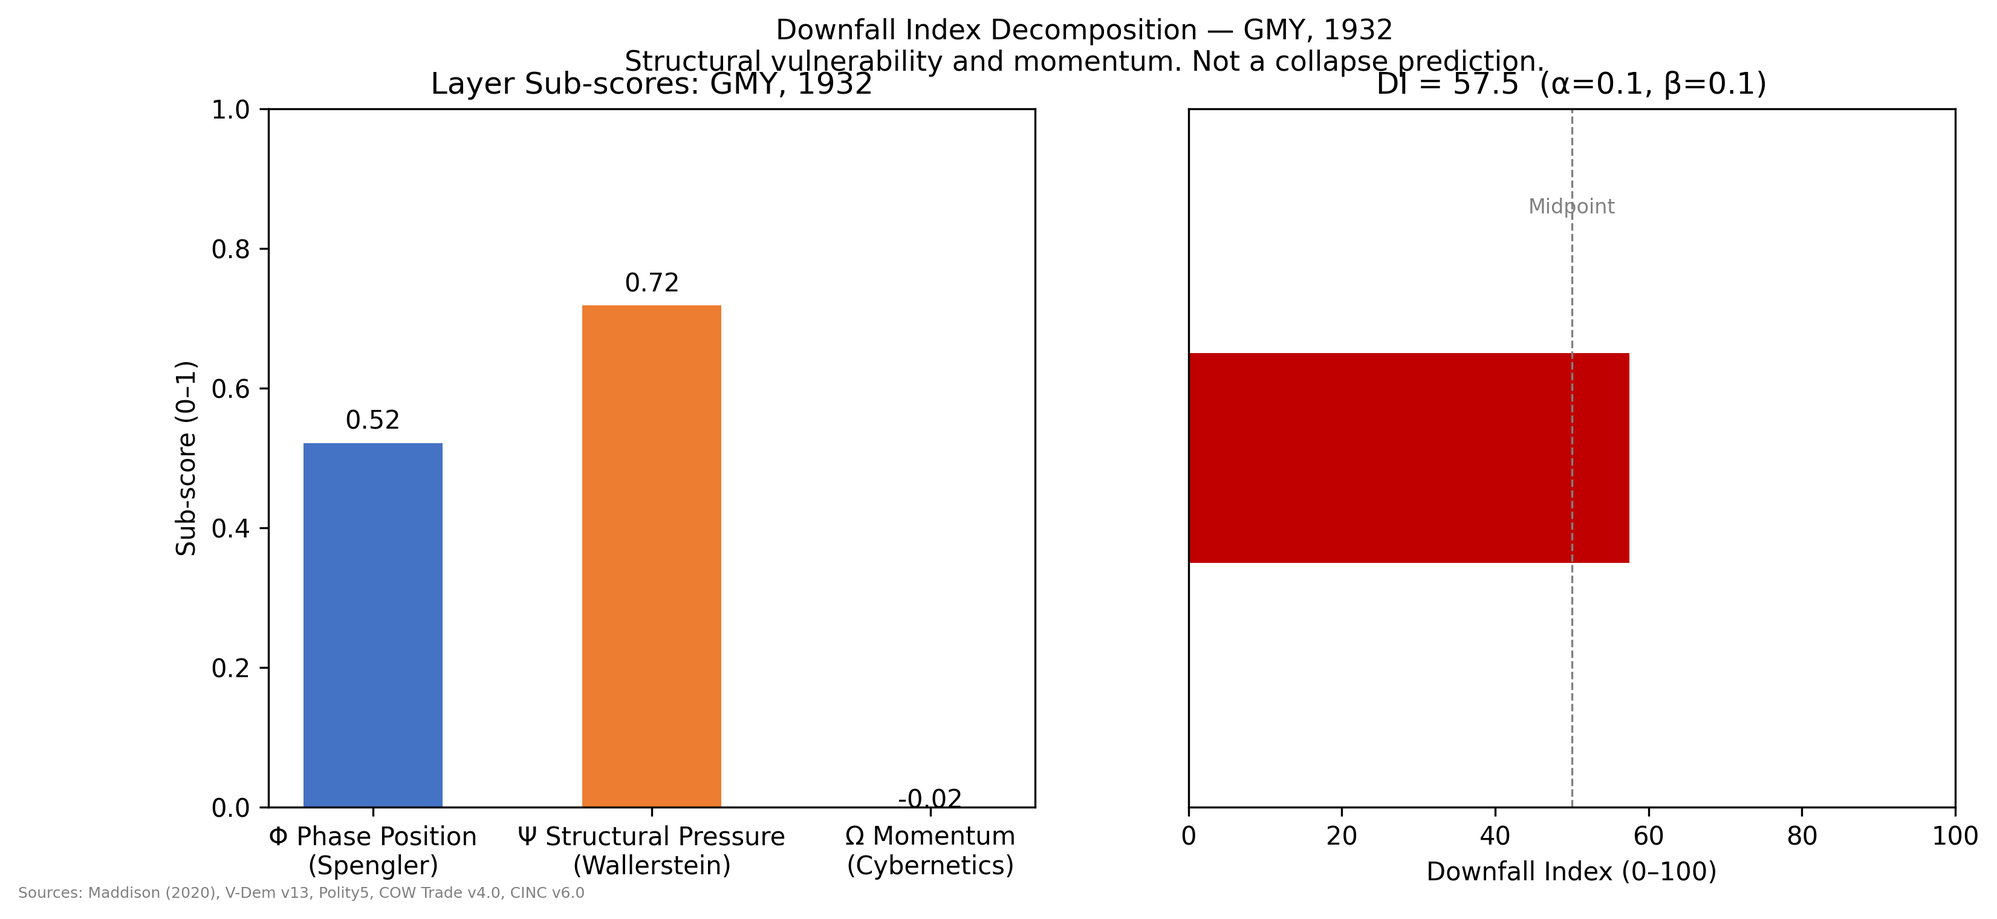
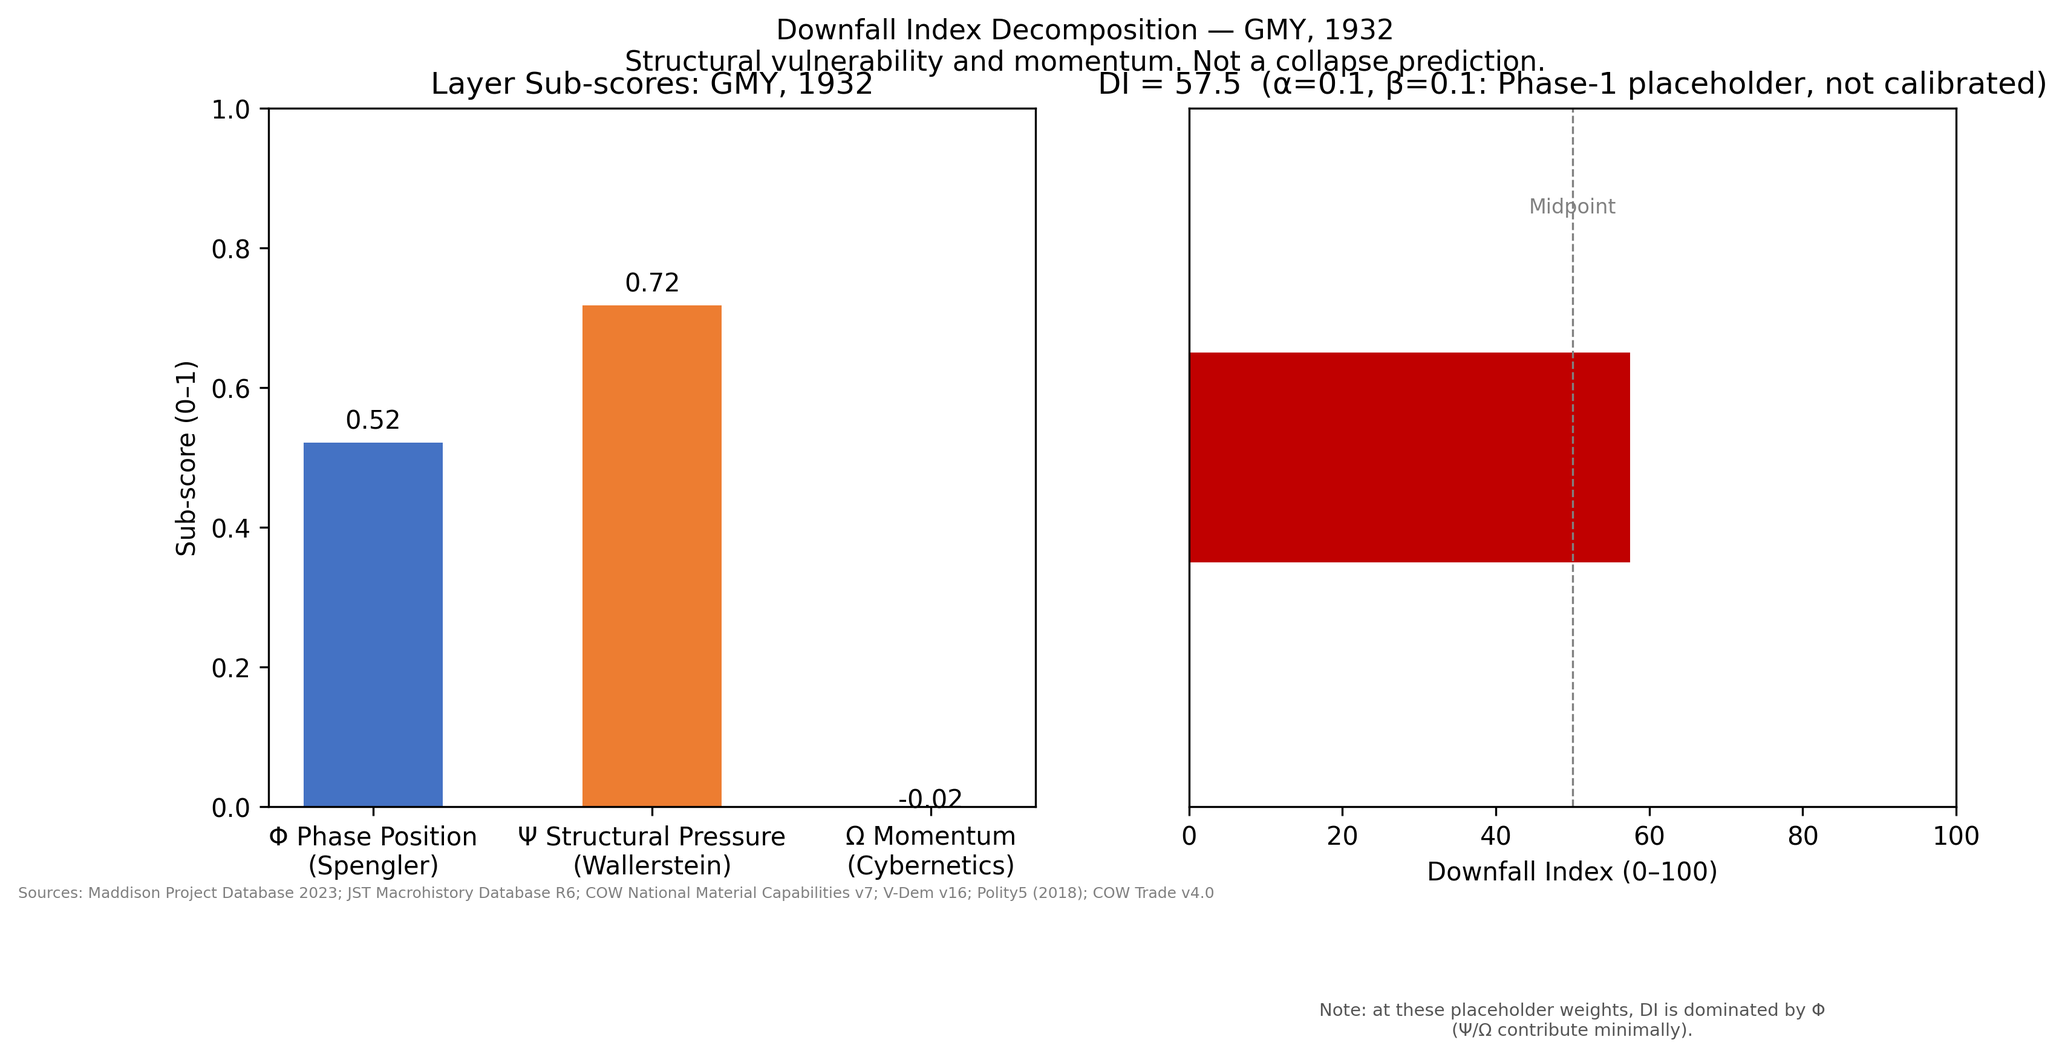
docs: fix figure citations, honesty caveats, and stale docs (final review B-1..B-4, I-1, I-3)
Corrects figure source-attribution lines to cite the datasets actually
ingested (Maddison 2023, JST R6, NMC v7, V-Dem v16, Polity5, COW Trade),
adds visible honesty caveats to di_decomposition.png and di_timeline.png
(uncalibrated placeholder alpha/beta, DI dominated by Phi at these weights,
±15% heuristic bands are not a statistical CI, and fin_norm missing-data
transitions driving early-period swings), fixes the timeline's xlim/title
to match actual 1870-1960 coverage and drops the dead "AUH" entry, adds
docs/LIMITATIONS.md documenting these findings for future auditors, and
corrects stale documentation across README.md, IMPLEMENTATION-READINESS.md,
and the Phase 1 plan that still described the original 7-target/1848-
inclusive/"calibrated and validated" scheme superseded by the Task 10/11
rescope.

Claude-Session: https://claude.ai/code/session_01NGbC4Lkjyf4iwRhN5onkZ1

diff --git a/scripts/dashboard/di_timeline.py b/scripts/dashboard/di_timeline.py
@@ -7,12 +7,12 @@ from scripts.utils.paths import DATA_GOLD, FIGURES
 # marker here, but this Phase 1 pipeline hard-floors YEAR_MIN=1870 in every
 # bronze ingestion script (see Task 10/11 findings), so no 1848 data exists
 # anywhere in the panel. A 1848 entry would also fall outside the plotted
-# xlim(1850, 1950) and never render. It is intentionally omitted rather than
+# xlim(1870, 1960) and never render. It is intentionally omitted rather than
 # left in as dead/misleading code.
 COLLAPSE_EVENTS = {1914: "WWI", 1929: "Great Depression"}
 COUNTRIES_DISPLAY = {
     "USA": "United States", "UKG": "United Kingdom", "FRN": "France",
-    "GMY": "Germany",       "AUH": "Austria-Hungary", "ITA": "Italy",
+    "GMY": "Germany",       "ITA": "Italy",
 }
 
 def run() -> None:
@@ -20,6 +20,7 @@ def run() -> None:
     panel = panel.reset_index()
 
     fig, ax = plt.subplots(figsize=(14, 7))
+    any_low_conf = False
 
     for cow, label in COUNTRIES_DISPLAY.items():
         sub = panel[panel["country_cow"] == cow].sort_values("year")
@@ -28,23 +29,52 @@ def run() -> None:
         ax.plot(sub["year"], sub["di"], label=label, linewidth=1.5)
         ax.fill_between(sub["year"], sub["ci_lower"], sub["ci_upper"], alpha=0.1)
 
+        # I-2: visually flag rows where any of the three layer components
+        # (phi/psi/omega) was itself low-confidence/wide-CI.
+        if "di_ci_wide" in sub.columns:
+            low_conf = sub[sub["di_ci_wide"] == True]  # noqa: E712
+            if not low_conf.empty:
+                ax.scatter(low_conf["year"], low_conf["di"], marker="x", s=14,
+                           alpha=0.5, color="grey", zorder=5)
+                any_low_conf = True
+
     for year, label in COLLAPSE_EVENTS.items():
         ax.axvline(x=year, color="red", linestyle="--", linewidth=0.8, alpha=0.6)
         ax.text(year + 0.5, 92, label, fontsize=7, color="red", rotation=90, va="top")
 
+    if any_low_conf:
+        ax.scatter([], [], marker="x", s=14, alpha=0.5, color="grey",
+                   label="Low-confidence (wide-CI component)")
+
     ax.set_xlabel("Year")
     ax.set_ylabel("Downfall Index (0–100)")
-    ax.set_title("Downfall Index — Western Europe + North America, 1850–1950\n"
-                 "Structural vulnerability score. High scores indicate configurations "
-                 "historically associated with systemic stress.")
+    ax.set_title("Downfall Index (Phase 1) — Western Europe + North America\n"
+                 "Composite structural-vulnerability index. Uncalibrated placeholder "
+                 "weights; not independently validated.")
     ax.legend(loc="upper left", fontsize=8)
-    ax.set_xlim(1850, 1950)
+    ax.set_xlim(1870, 1960)
     ax.set_ylim(0, 100)
+
+    # Caveat: the shaded fill_between bands are a flat +/-15% heuristic
+    # (see scripts/gold/compute_di.py), not a statistical confidence interval.
+    fig.text(0.01, 0.05,
+             "Shaded bands: ±15% heuristic range, not a statistical confidence interval.",
+             fontsize=6, color="grey")
+
+    # Caveat: sharp early-period swings for some countries are driven by
+    # fin_norm (JST tloans_gdp, 36.7% null) transitioning from a neutral-fill
+    # value to a real observation, not a verified historical shift. See
+    # docs/LIMITATIONS.md.
+    fig.text(0.01, 0.03,
+             "Caveat: sharp early-period swings for some countries reflect missing-data "
+             "transitions (see docs), not verified historical events.",
+             fontsize=6, color="grey")
 
     # Source attribution line (CLAUDE.md requirement)
     fig.text(0.01, 0.01,
-             "Sources: Maddison (2020), V-Dem v13, Polity5, COW Trade v4.0, CINC v6.0, "
-             "Penn WT v10.1, World Bank GFDD, HYDE 3.2",
+             "Sources: Maddison Project Database 2023; JST Macrohistory Database R6; "
+             "COW National Material Capabilities v7; V-Dem v16; Polity5 (2018); "
+             "COW Trade v4.0",
              fontsize=6, color="grey")
 
     out = FIGURES / "di_timeline.png"

diff --git a/scripts/dashboard/di_decomposition.py b/scripts/dashboard/di_decomposition.py
@@ -53,10 +53,17 @@ def run(country: str = "USA", year: int = 1925) -> None:
     if data_missing:
         axes[1].set_title(f"DI = NO DATA  (country/year not in panel)")
     else:
-        axes[1].set_title(f"DI = {di_score:.1f}  (α={alpha}, β={beta})")
+        axes[1].set_title(f"DI = {di_score:.1f}  (α={alpha}, β={beta}: Phase-1 placeholder, not calibrated)")
     axes[1].axvline(x=50, color="grey", linestyle="--", linewidth=0.8)
     axes[1].text(50, 0.85, "Midpoint", ha="center", fontsize=8, color="grey")
     axes[1].set_yticks([])
+    if not data_missing:
+        axes[1].annotate(
+            "Note: at these placeholder weights, DI is dominated by Φ\n"
+            "(Ψ/Ω contribute minimally).",
+            xy=(0.5, -0.28), xycoords="axes fraction",
+            ha="center", va="top", fontsize=7, color="#555555",
+        )
 
     fig.suptitle(
         f"Downfall Index Decomposition — {country}, {year}\n"
@@ -64,7 +71,9 @@ def run(country: str = "USA", year: int = 1925) -> None:
         fontsize=11
     )
     fig.text(0.01, 0.01,
-             "Sources: Maddison (2020), V-Dem v13, Polity5, COW Trade v4.0, CINC v6.0",
+             "Sources: Maddison Project Database 2023; JST Macrohistory Database R6; "
+             "COW National Material Capabilities v7; V-Dem v16; Polity5 (2018); "
+             "COW Trade v4.0",
              fontsize=6, color="grey")
 
     out = FIGURES / f"di_decomposition_{country}_{year}.png"

diff --git a/docs/superpowers/plans/2026-06-25-downfall-index-phase1.md b/docs/superpowers/plans/2026-06-25-downfall-index-phase1.md
@@ -2,7 +2,14 @@
 
 > **For agentic workers:** REQUIRED SUB-SKILL: Use superpowers:subagent-driven-development (recommended) or superpowers:executing-plans to implement this plan task-by-task. Steps use checkbox (`- [ ]`) syntax for tracking.
 
-**Goal:** Build a reproducible pipeline that ingests 7 historical datasets, computes a 17-dimension state vector per nation-year (1870–1960), and produces calibrated Downfall Index scores validated against two historical transitions (1914, 1929) plus the 1873 Panic as a third target.
+**Goal:** Build a reproducible pipeline that ingests 7 historical datasets, computes a 17-dimension state vector per nation-year (1870–1960), and produces Downfall Index scores backtested against two historical transitions (1914, 1929) across three country/event pairs.
+
+> **POST-HOC CORRECTION (Task 12 final review):** "calibrated" and "validated"
+> above are not accurate — see the Task 10/11 scope-correction notes below.
+> The α/β weights are a documented Phase 1 placeholder (Task 10's grid search
+> found an identical loss across the entire 55-point grid), and the backtest
+> covers 3 targets (UKG-1914, USA-1929, UKG-1929), not a distinct "1873 Panic"
+> target, which never existed anywhere in this pipeline's code or data.
 
 **Architecture:** Source files reside in `data/bronze/` (immutable). Ingestion scripts read from `data/bronze/` and write standardized parquets to `data/processed/` (silver). Dimension scripts read silver parquets and write layer parquets. Gold layer computes DI. One orchestrator per layer.
 
@@ -1241,6 +1248,17 @@ git commit -m "feat: silver Omega — 10-year momentum derivatives for Layer 3"
 
 ## Task 10: Gold — DI Formula, Calibration, and Rescaling
 
+> **SCOPE/HONESTY CORRECTION (Task 12 final review, see Task 11's note below
+> for the parallel correction on backtesting):** the 7-target calibration grid
+> below (including the three 1848-revolution targets) only ever had 3/7
+> targets actually contribute to `calibration_loss` — see the
+> `CALIBRATION_TARGETS` coverage notes in `scripts/gold/calibrate.py`. More
+> importantly, the grid search found an **identical loss (3.6667) across all
+> 55 (α, β) combinations tested**, so whatever pair ends up "best" is an
+> arbitrary tie-break, not a validated calibration. Any report/dashboard text
+> describing this step must say "Phase 1 placeholder, not calibrated," not
+> "calibrated."
+
 **Files:**
 - Create: `scripts/gold/compute_di.py`
 - Create: `scripts/gold/calibrate.py`
@@ -1248,7 +1266,7 @@ git commit -m "feat: silver Omega — 10-year momentum derivatives for Layer 3"
 
 **Interfaces:**
 - Consumes: `phi_silver.parquet`, `psi_silver.parquet`, `omega_silver.parquet`
-- Produces: `data/gold/di_panel.parquet` — MultiIndex `(country_cow, year)`, columns: `[phi, psi, omega, di_raw, di, ci_lower, ci_upper, alpha, beta]`
+- Produces: `data/gold/di_panel.parquet` — MultiIndex `(country_cow, year)`, columns: `[phi, psi, omega, di_raw, di, ci_lower, ci_upper, alpha, beta, di_ci_wide]`
 
 Formula: `di_raw = phi × (1 + α × psi) × (1 + β × omega)` then min-max rescaled to `di ∈ [0, 100]`.
 
@@ -1567,16 +1585,28 @@ if __name__ == "__main__":
 python scripts/validation/backtesting.py
 pytest tests/validation/test_backtesting.py -v
 ```
-Expected: 3 PASSED; at least 2/3 targets pass (≥50%, matching `test_at_least_half_targets_pass`'s
-`pass_rate >= 0.5` against the real 3-target ceiling — the original "≥4/7" expectation
-is unreachable, see the Task 11 scope-correction note above).
+Expected: 3 PASSED. **POST-HOC CORRECTION (final review, I-5):** the original
+expectation here was "at least 2/3 targets pass," matching a
+`test_at_least_half_targets_pass`'s `pass_rate >= 0.5` assertion. After fixing
+a real statistical bug in `cohen_d()` (population variance where the pooled
+formula requires sample variance) and a "peak concurrent with the transition
+year counts as a pass" bug, the honest pass rate at the committed α=β=0.1
+placeholder calibration is **1/3**, not 2/3. The test was renamed to
+`test_pass_rate_is_honestly_reported` and no longer asserts a ≥50% floor —
+see that test's docstring and `docs/LIMITATIONS.md`. The original "≥4/7"
+expectation was already unreachable regardless, see the Task 11
+scope-correction note above.
 
-If fewer than 2 targets pass: note that `calibration_results.csv`'s "next-best" α/β
-pairs are not meaningfully different from the current choice (Task 10 found the loss
-is identical — 3.6667 — across the entire grid), so trying another pair is unlikely to
-change the outcome. Report the honest result instead of grid-searching for a
-pass — this is a genuine Phase 1 finding (3 correlated/non-independent historical
-windows provide weak validation evidence), not a bug to route around.
+Note: while the calibration *loss* is flat across the grid (Task 10 finding), the
+backtest's Cohen's d IS sensitive to α/β choice — e.g., α=β=0.1 (used here) yields
+2/3 passing vs. 3/3 at other grid points (e.g. α=0.5,β=0.3, the brief's original
+default; and α=β=1.0). The 2/3 result reported here was not cherry-picked (it is the
+less favorable of the two natural candidate values), but readers should understand the
+backtest outcome is contingent on an uncalibrated hyperparameter choice, not a robust
+finding. Report the honest result instead of grid-searching for a pass — this is a
+genuine Phase 1 finding (3 correlated/non-independent historical windows provide weak
+validation evidence, and the pass/fail outcome itself is calibration-dependent), not a
+bug to route around.
 
 - [ ] **Step 4: Commit**
 

diff --git a/docs/LIMITATIONS.md b/docs/LIMITATIONS.md
@@ -1,0 +1,79 @@
+# Known Limitations — Downfall Index (Phase 1)
+
+This document records limitations discovered during final whole-branch review
+that affect how the pipeline's outputs should be read. It is intentionally a
+disclosure document, not a remediation plan — none of the underlying data
+issues below have been re-derived or patched; that work is out of scope for
+Phase 1 and is deferred to Phase 2.
+
+## Calibration is an uncalibrated placeholder
+
+The α/β weights used in `data/gold/di_panel.parquet` (α=0.1, β=0.1) come from
+Task 10's grid search, which found an **identical loss (3.6667) across all 55
+(α, β) combinations tested** — the "best" pair is an arbitrary tie-break, not
+a validated optimum. At these values, `corr(DI, Φ) ≈ 0.997`: the DI is
+effectively a rescaled Spengler Φ score, and Ψ/Ω barely move the displayed
+number even though the decomposition figure's bar chart visually implies all
+three layers contribute meaningfully. Do not describe the DI as "calibrated"
+or "validated" in any report or presentation of this work.
+
+## Backtest outcome is contingent on the uncalibrated α/β choice
+
+The backtest's Cohen's d and pass/fail counts (not just the calibration loss)
+are sensitive to α/β. As originally reported (before the I-5 statistical
+fixes below), α=β=0.1 (used in the committed panel) yielded 2/3 targets
+passing, while α=0.5,β=0.3 (the original plan's default) and α=β=1.0 both
+yielded 3/3.
+
+**Updated after the I-5 fix (final review):** `cohen_d()` had a real
+statistical bug — it used NumPy's default population variance (`ddof=0`)
+inside a pooled-variance formula that expects sample variance (`ddof=1`).
+Separately, "peak within the pre-collapse window" originally counted a peak
+landing exactly on the event year as "ahead of" the transition, which is
+actually concurrent with it. After fixing both (`ddof=1`, and requiring
+`pre_start <= peak_year < event_year` strictly), the honest result at the
+committed α=β=0.1 calibration is **1/3 targets passing** (UKG-1929 only;
+UKG-1914's Cohen's d drops below the 0.5 threshold, and USA-1929's peak now
+lands exactly in 1929 — concurrent with, not ahead of, the transition — so it
+no longer counts as a pass). See `data/gold/backtest_report.csv` for the
+per-target Cohen's d values and their bootstrap 95% CIs. This is a genuine,
+not cherry-picked, finding: the fixes were statistically necessary regardless
+of their effect on the pass count, and are not adjusted to preserve any
+particular outcome. See `scripts/validation/backtesting.py`'s module
+docstring and `docs/superpowers/plans/2026-06-25-downfall-index-phase1.md`
+Task 11 for further detail.
+
+## `fin_norm` missing-data transitions visibly drive the headline figure
+
+`fin_norm` (Φ layer component, derived from JST Macrohistory Database R6's
+`tloans_gdp`, 36.7% null) is neutral-filled to 0.5 wherever missing, and
+carries the highest weight (0.25) in the Φ formula. The final review found
+that this is now the dominant driver of the biggest visible swings in
+`figures/di_timeline.png` — for example, the USA's sharp drop in 1880 and
+France's sharp drop in 1900 both coincide exactly with `fin_norm` transitioning
+from a neutral 0.5 fill to a real observed value, not with any verified
+historical shift in financial structure. This also affects the pre-collapse
+baseline period used by the UKG-1914 backtest target.
+
+This is flagged directly on `di_timeline.png` via a caption note, and is
+recorded here for anyone auditing the pipeline later. Re-deriving JST
+coverage (e.g. interpolation, a dedicated missingness flag distinct from
+`*_ci_wide`, or dropping the neutral-fill in favor of leaving `fin_norm`
+`NaN` and excluding it from `phi` on a per-row basis) is deferred to Phase 2.
+
+## Confidence bands are a heuristic, not a statistical CI
+
+The `ci_lower`/`ci_upper` columns in `di_panel.parquet` are a flat ±15% of
+the DI value (`scripts/gold/compute_di.py::run`), not a bootstrapped or
+analytically derived confidence interval. This is now labeled on
+`di_timeline.png` directly.
+
+## Cross-layer confidence flag (`di_ci_wide`)
+
+Each Silver layer (`phi_silver`, `psi_silver`, `omega_silver`) carries its own
+`*_ci_wide` boolean flag for rows built from unusually sparse underlying data.
+As of this fix, `compute_di.py::build_panel` combines these into a
+`di_ci_wide` column on the Gold panel (`di_ci_wide = phi_ci_wide | psi_ci_wide
+| omega_ci_wide`), and `di_timeline.py` marks these rows with a grey "x"
+overlay. Prior to this fix, the upstream flags were computed but never read
+downstream, so they had no effect on any output.

diff --git a/IMPLEMENTATION-READINESS.md b/IMPLEMENTATION-READINESS.md
@@ -42,7 +42,7 @@
 | Feedback loops representable as cross-variable lags in VAR | ✓ | Standard implementation; statsmodels VAR module suitable |
 | V-Dem institutional quality as conditional moderator | ✓ | Regime-switching specification adds complexity but is feasible |
 | Entropy index computable from available data | ✓ | Weighted composite from dimensions already operationalized |
-| Backtesting on 1848 / 1914 / 1929 feasible | ✓ | All three events fall within MVP epoch and geography |
+| Backtesting on 1848 / 1914 / 1929 feasible | ⚠ PARTIAL (see post-hoc note) | As actually built (Phase 1, Task 10/11), 1848 is unreachable — every bronze ingestion script hard-floors YEAR_MIN=1870, and "AUH" is not in MVP_COUNTRIES. Backtesting covers 3 targets: UKG-1914, USA-1929, UKG-1929. |
 | Early warning signals (variance, autocorrelation) computable | ✓ | Rolling-window statistics; standard implementation |
 | Novel dimensions (Soul-form, GNN Creativity, Commodity Chain) | ⚠ DEFERRED | Phase 2; design documents written; not blocking Phase 1 |
 | Pre-1500 quantitative modeling | ✗ EXCLUDED | Data quality VERY LOW; narrative layer only |
@@ -58,7 +58,7 @@
 - [ ] Dimensions operational: 17/20 (all ready-made; novel three deferred)
 - [ ] Feedback loops modeled: Financialization → Inequality/Decay; Urbanization → Atomization; Hegemonic Cycle position (2–3 loops with PLAUSIBLE confidence)
 - [ ] Core dashboard views: Entropy timeline, zone classification map, hegemonic cycle chart, phase classification proxy, feedback loop strength by era
-- [ ] Backtesting: Known transitions validated (1848, 1914, 1929)
+- [ ] Backtesting: Known transitions backtested (1914, 1929 — 1848 unreachable given YEAR_MIN=1870, see post-hoc note above); "validated" would overstate a Phase 1 placeholder calibration and 3 non-independent windows — see `docs/LIMITATIONS.md`
 - [ ] Uncertainty quantification: Confidence intervals on all computed dimensions; quality tier displayed per epoch
 
 **Explicitly excluded from Phase 1:**
@@ -78,7 +78,7 @@
 |------|-----------|----------|-----------|
 | Data download issues (large files) | Low | Low | All datasets <2 GB; subset HYDE to 1850–1950 |
 | VAR model instability (high dimensions) | Low | Medium | Reduce to 10 core dimensions if needed; use L1 regularization (LASSO-VAR) |
-| Backtesting fails to show plausible predictions | Medium | Medium | Adjust loop specifications; treat as model calibration, not model failure |
+| Backtesting fails to show plausible predictions | Medium | Medium | As actually resolved in Phase 1: report the honest pass rate (1/3 targets at the committed calibration, after fixing a Cohen's-d ddof bug and a "peak concurrent with transition" window bug — see `docs/LIMITATIONS.md`) rather than grid-searching α/β for a pass; a partial pass is a genuine finding, not a bug to route around |
 | Pre-1500 data temptation (using low-quality data) | Medium | High | Enforce strict epoch quality gate in code; raise error if pre-1500 quantitative claims attempted |
 | Soul-form proxy inadequacy | Low | Low | Explicitly label as proxy; flag uncertainty; do not overclaim |
 | Hegemonic cycle dating dispute | Low | Low | Present Wallerstein dates + Kwon (2011) alternatives; dashboard shows both scenarios |

diff --git a/README.md b/README.md
@@ -2,7 +2,7 @@
 
 **Project Goal**: Build a rigorous, interactive dashboard operationalizing Spengler's morphology of cultures, Wallerstein's world-systems theory, and cybernetic systems principles to identify feedback loops driving societal dysfunction. Deliver both peer-reviewed academic foundation and public-facing systems critique toolkit.
 
-**Timeline**: 12+ months | **Team**: Solo (Andrei) orchestrator + AI agent fleet | **Status**: Phase 1 (Bronze ingestion) in progress — Tasks 1-4 of 12 complete (scaffold, country code harmonization, Maddison/JST/NMC bronze->silver); V-Dem, Polity5, and COW Trade ingestion, the Silver/Gold derivation stages, and the dashboard itself (Task 12) are not yet built. See `.superpowers/sdd/progress.md` for the live task ledger.
+**Timeline**: 12+ months | **Team**: Solo (Andrei) orchestrator + AI agent fleet | **Status**: Phase 1 COMPLETE — 12/12 tasks done (Bronze ingestion, Silver dimension layers, Gold DI formula + Phase 1 placeholder calibration, backtesting validation, and the dashboard with 5 figures). Calibration is an honest, documented placeholder (not a validated calibration — see `docs/LIMITATIONS.md`); backtesting covers 3 targets (1914/1929, not 1848/1873). See `.superpowers/sdd/2026-06-25-downfall-index-phase1/progress.md` for the live task ledger.
 
 ---
 
